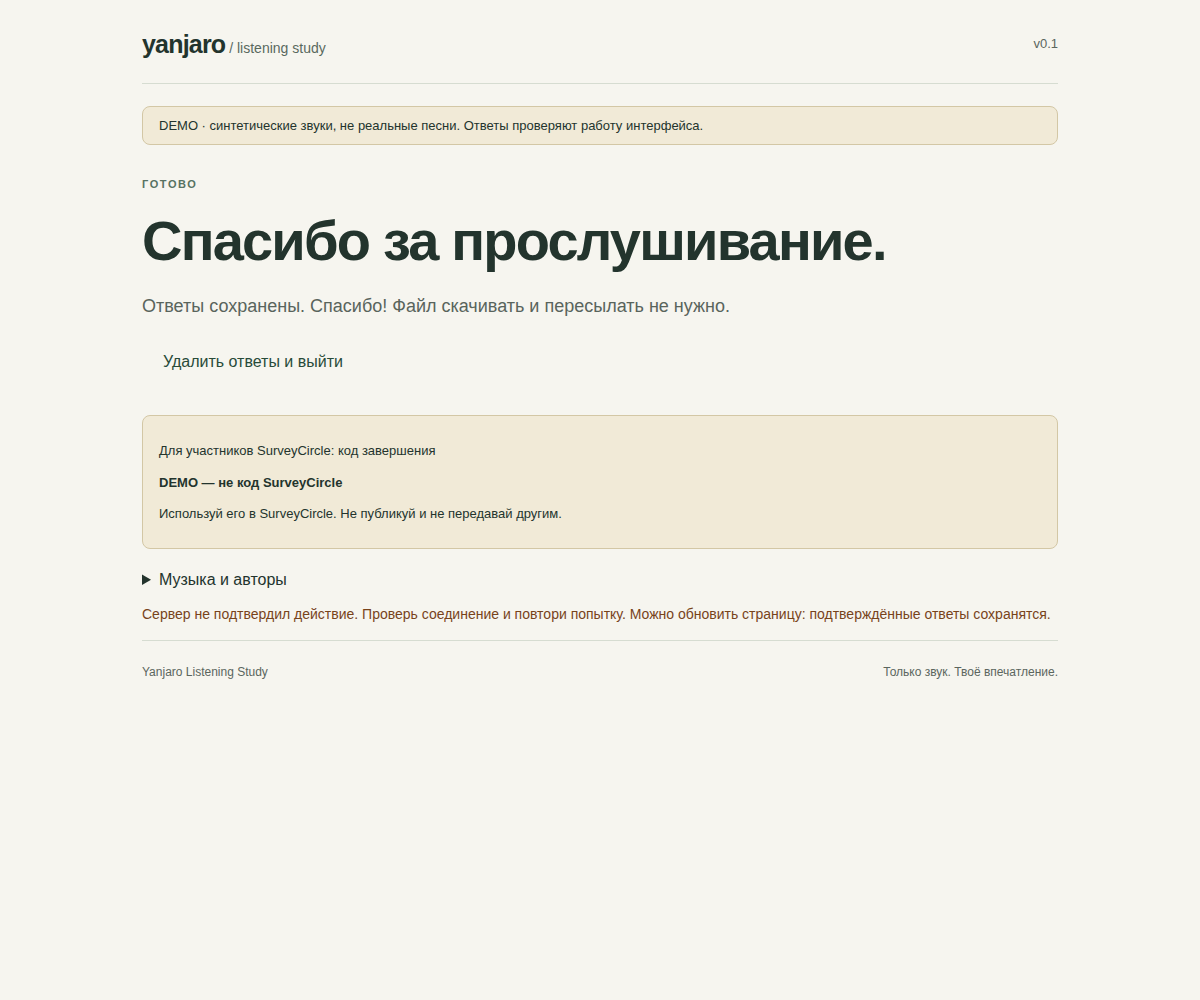
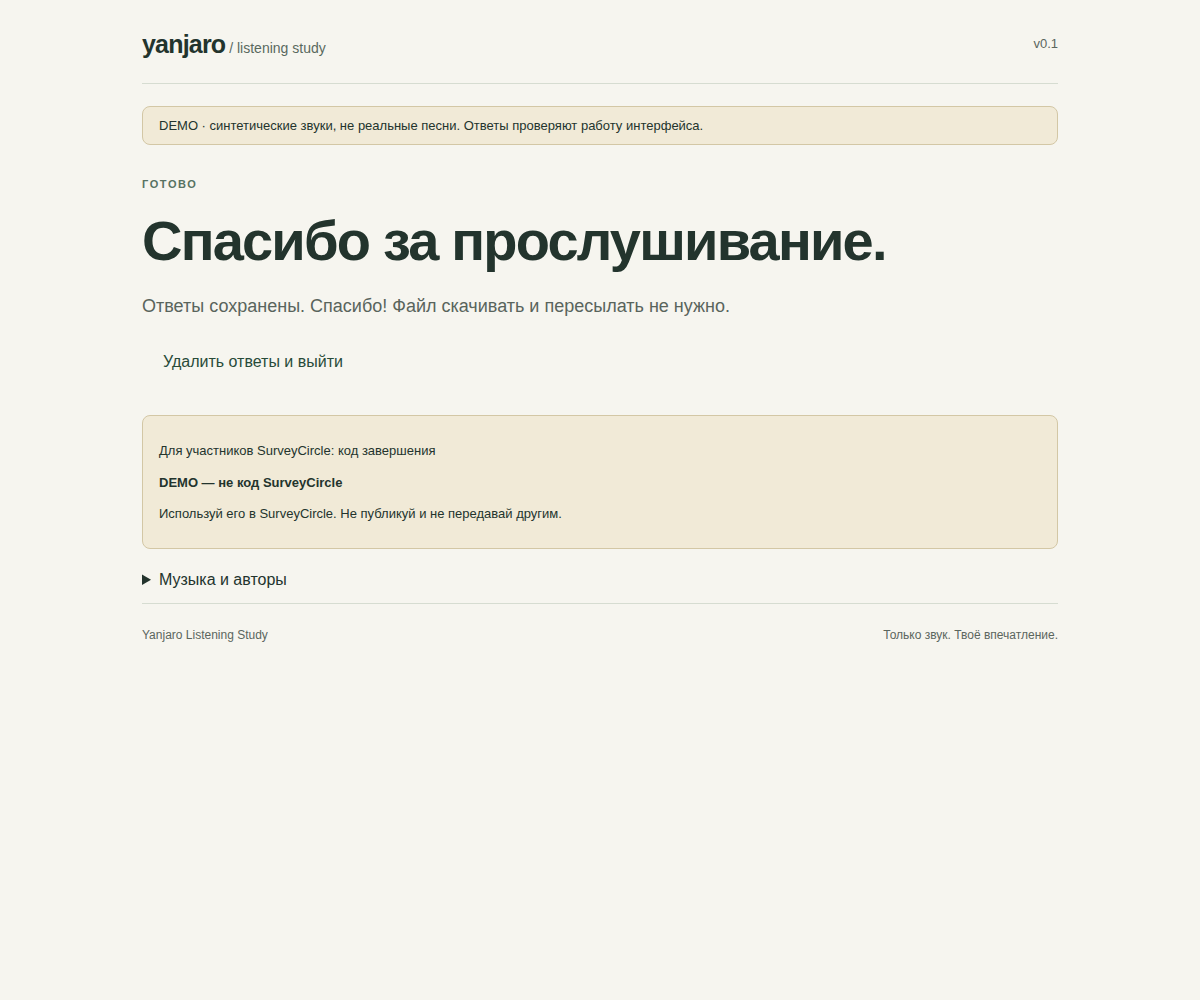
test: record reviewed collection and mobile acceptance evidence

Changed region(s): [[0.1233, 0.589, 0.8942, 0.682]]

diff --git a/experiments/listening-study/VALIDATION.md b/experiments/listening-study/VALIDATION.md
@@ -5,7 +5,7 @@ All audio, sessions and screenshots in automated checks are **synthetic demo**, 
 | Gate | Status / evidence |
 |---|---|
 | Local Python checks | PASS; 51 tests covering old study invariants plus collection, concurrent allocation, retry, resume, erasure, retention, closed intake and shortlist unknowns |
-| Collection browser acceptance | PASS at `072aa2a49ba1f1c08e65125fe34db8e3cd3dcc48`; [run 37894472954](https://github.com/zinverno/yanjaro/actions/runs/37894472954), 12 scenario groups, Chromium 153.0.8010.12 and WebKit 26.6 (iPhone 13 profile), zero external page requests / JS errors |
+| Collection browser acceptance | PASS at `6848ae227d257ab79cd278d6a3559847d4b5a68a`; [run 37896667242](https://github.com/zinverno/yanjaro/actions/runs/37896667242), 13 scenario groups, Chromium 153.0.8010.12 and WebKit 26.6 (iPhone 13 profile), zero external page requests / JS errors |
 | Existing standalone demo browser acceptance | PASS in same run, 17 checks; memory-only export still works independently |
 | Loss/recovery cases | PASS; real WAV, actual HTTP/SQLite, lost acknowledgement **after** commit, retry without duplicate, tab close + process restart, new-browser recovery/revoked old cookie, completion failure/retry, mobile withdrawal failure/retry |
 | Real music shortlist | PASS as research inventory: 24 named records / 3 creators, declared CC0-1.0, exact source/evidence levels, private listening CSV; no audio/feature fabrication |
@@ -15,7 +15,7 @@ All audio, sessions and screenshots in automated checks are **synthetic demo**, 
 | SurveyCircle listing/code redemption, public TLS/load/provider logging | NOT RUN; no listing/deployment/account/payment performed |
 | Existing Yanjaro / Release / AUR / Render / Yambda training | NOT RUN; untouched/out of scope |
 
-The evidence above identifies its tested code. Later changes add direct aggregate analysis (no stale raw exports), UTC expiry, purge without traffic, permanent intake closure, and clearer UI errors. The workflow tests each subsequent exact PR head; consult [PR #9 checks](https://github.com/zinverno/yanjaro/pull/9/checks) for final-head status, not this historical run alone.
+The evidence above identifies its tested code, including direct aggregate analysis, UTC expiry, idle purge, permanent intake closure, cross-site recruitment navigation and clearing old error messages after a successful retry. Visual review caught the stale-error issue before this run; completion and withdrawal now assert an empty error status after success. The workflow tests each subsequent exact PR head; consult [PR #9 checks](https://github.com/zinverno/yanjaro/pull/9/checks) for final-head status, not this historical run alone.
 
 New acceptance harness: `tests/collection-browser.cjs`; [machine-readable evidence](validation/collection-checks.json). The final launch gates, retention policy and neutral invitation are in [LAUNCH.md](LAUNCH.md). License evidence and unresolved checks are in [CANDIDATES.md](CANDIDATES.md). Direct FMA opens returned 403; primary FMA search-index records and artist pages are explicitly distinguished from archived rights clearance.
 
